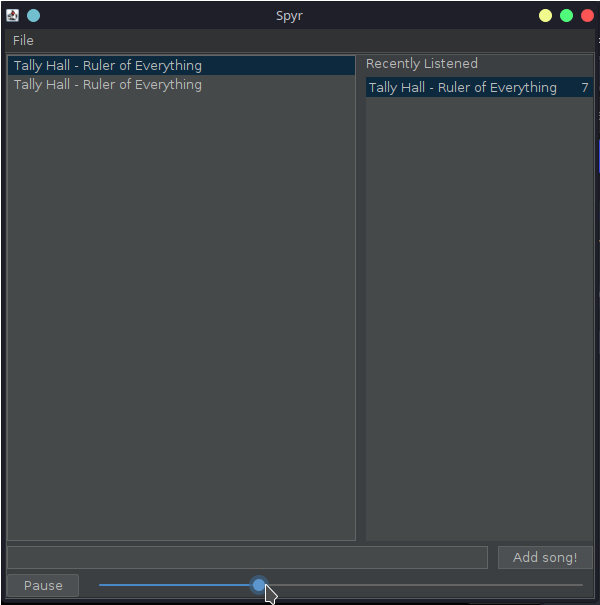
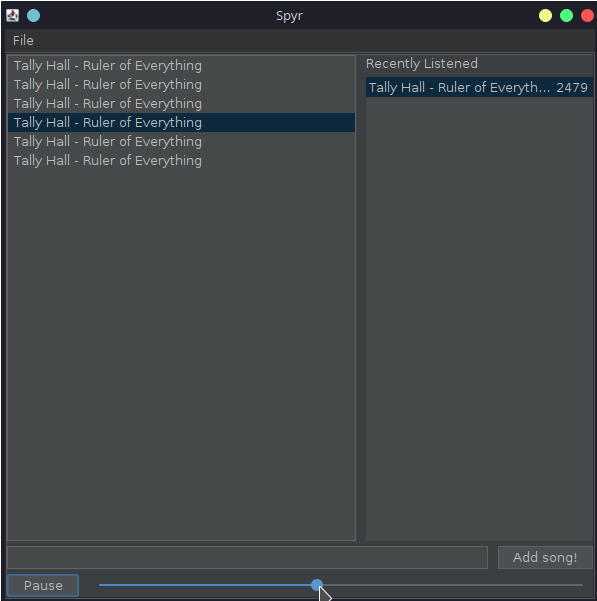
humor

Changed region(s): [[0.0, 0.0599, 1.0, 1.0], [0.9045, 0.0, 0.995, 0.0599], [0.4523, 0.0, 0.5126, 0.0599]]

diff --git a/app/src/main/java/spyr/MainWindow.java b/app/src/main/java/spyr/MainWindow.java
@@ -214,6 +214,6 @@ public class MainWindow {
                 }
             }
         });
-        recentSongTable.getColumnModel().getColumn(1).setMaxWidth(10);
+        recentSongTable.getColumnModel().getColumn(1).setMaxWidth(40);
     }
 }

diff --git a/README.md b/README.md
@@ -8,7 +8,7 @@ If that little blurb somehow managed to sell you already, you can grab a stable 
 
 ## Screenshots!
 ![Light Mode (with settings open)](https://raw.githubusercontent.com/asolidtime/spyr/main/images/lightmode.png)
-![Dark Mode](https://raw.githubusercontent.com/asolidtime/spyr/main/images/darkmode.png)
+![Dark Mode (as you can see, I really like Tally Hall](https://raw.githubusercontent.com/asolidtime/spyr/main/images/darkmode.png)
 
 ## Roadmap (in no particular order)
 
